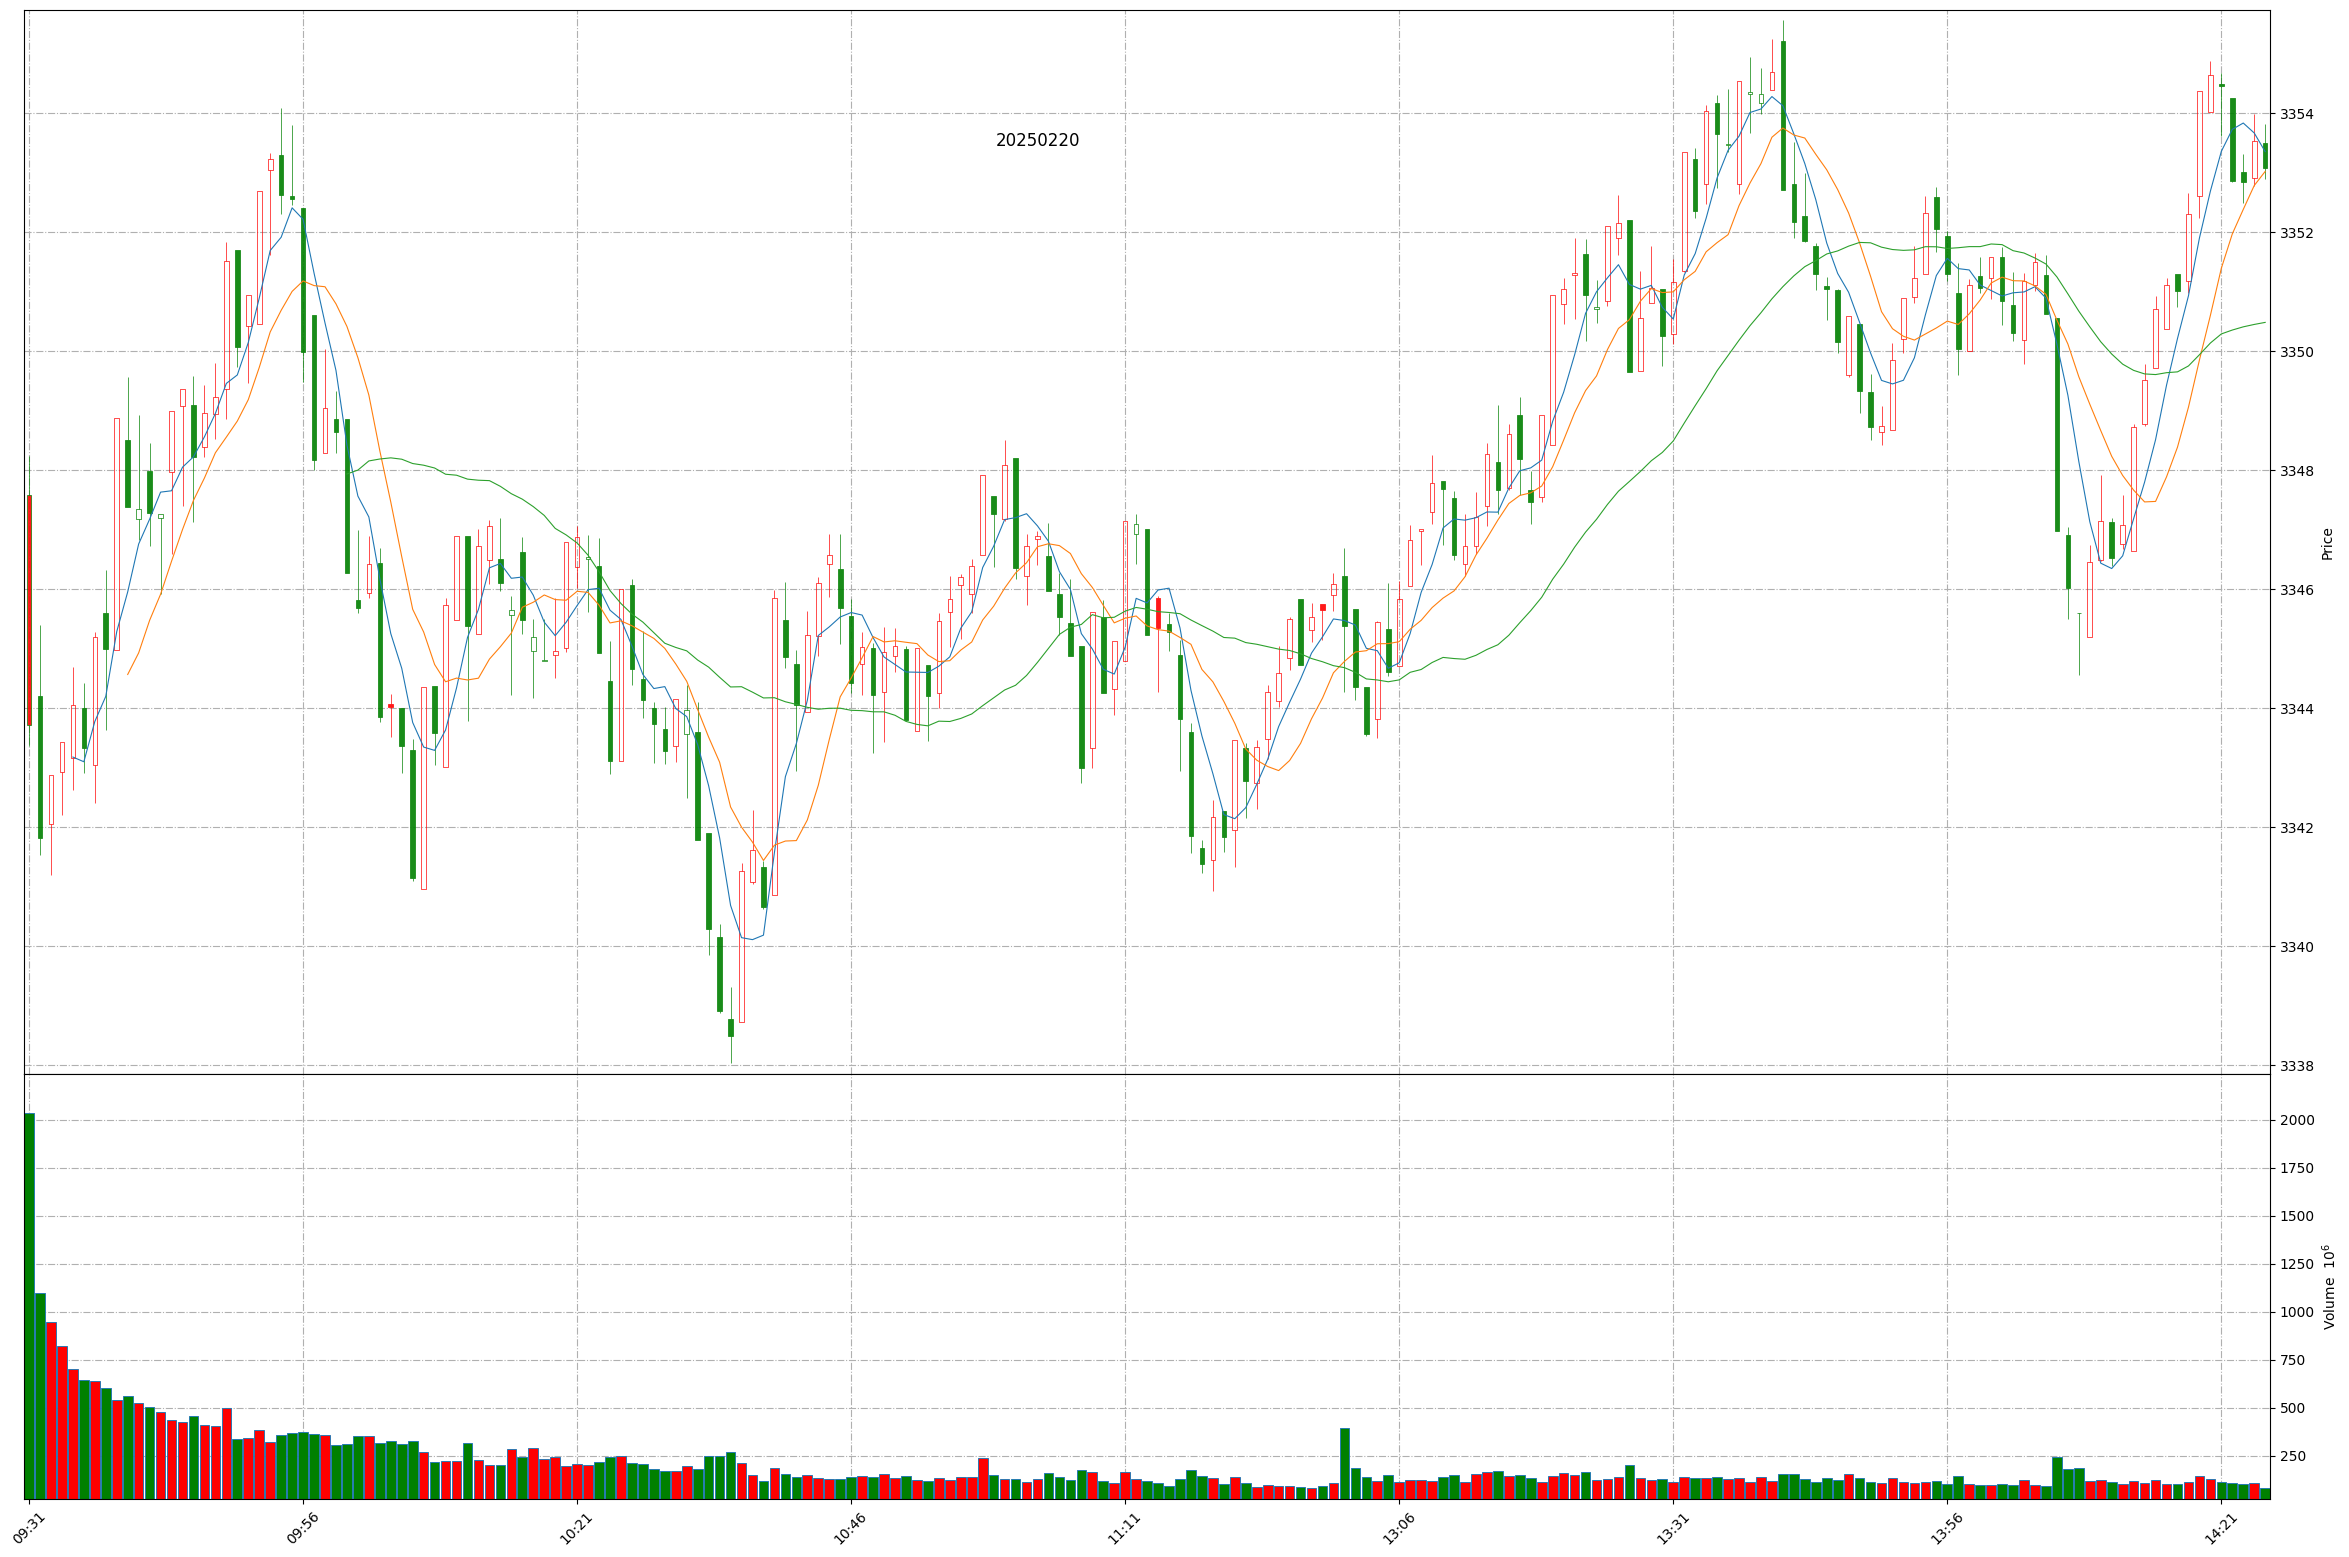
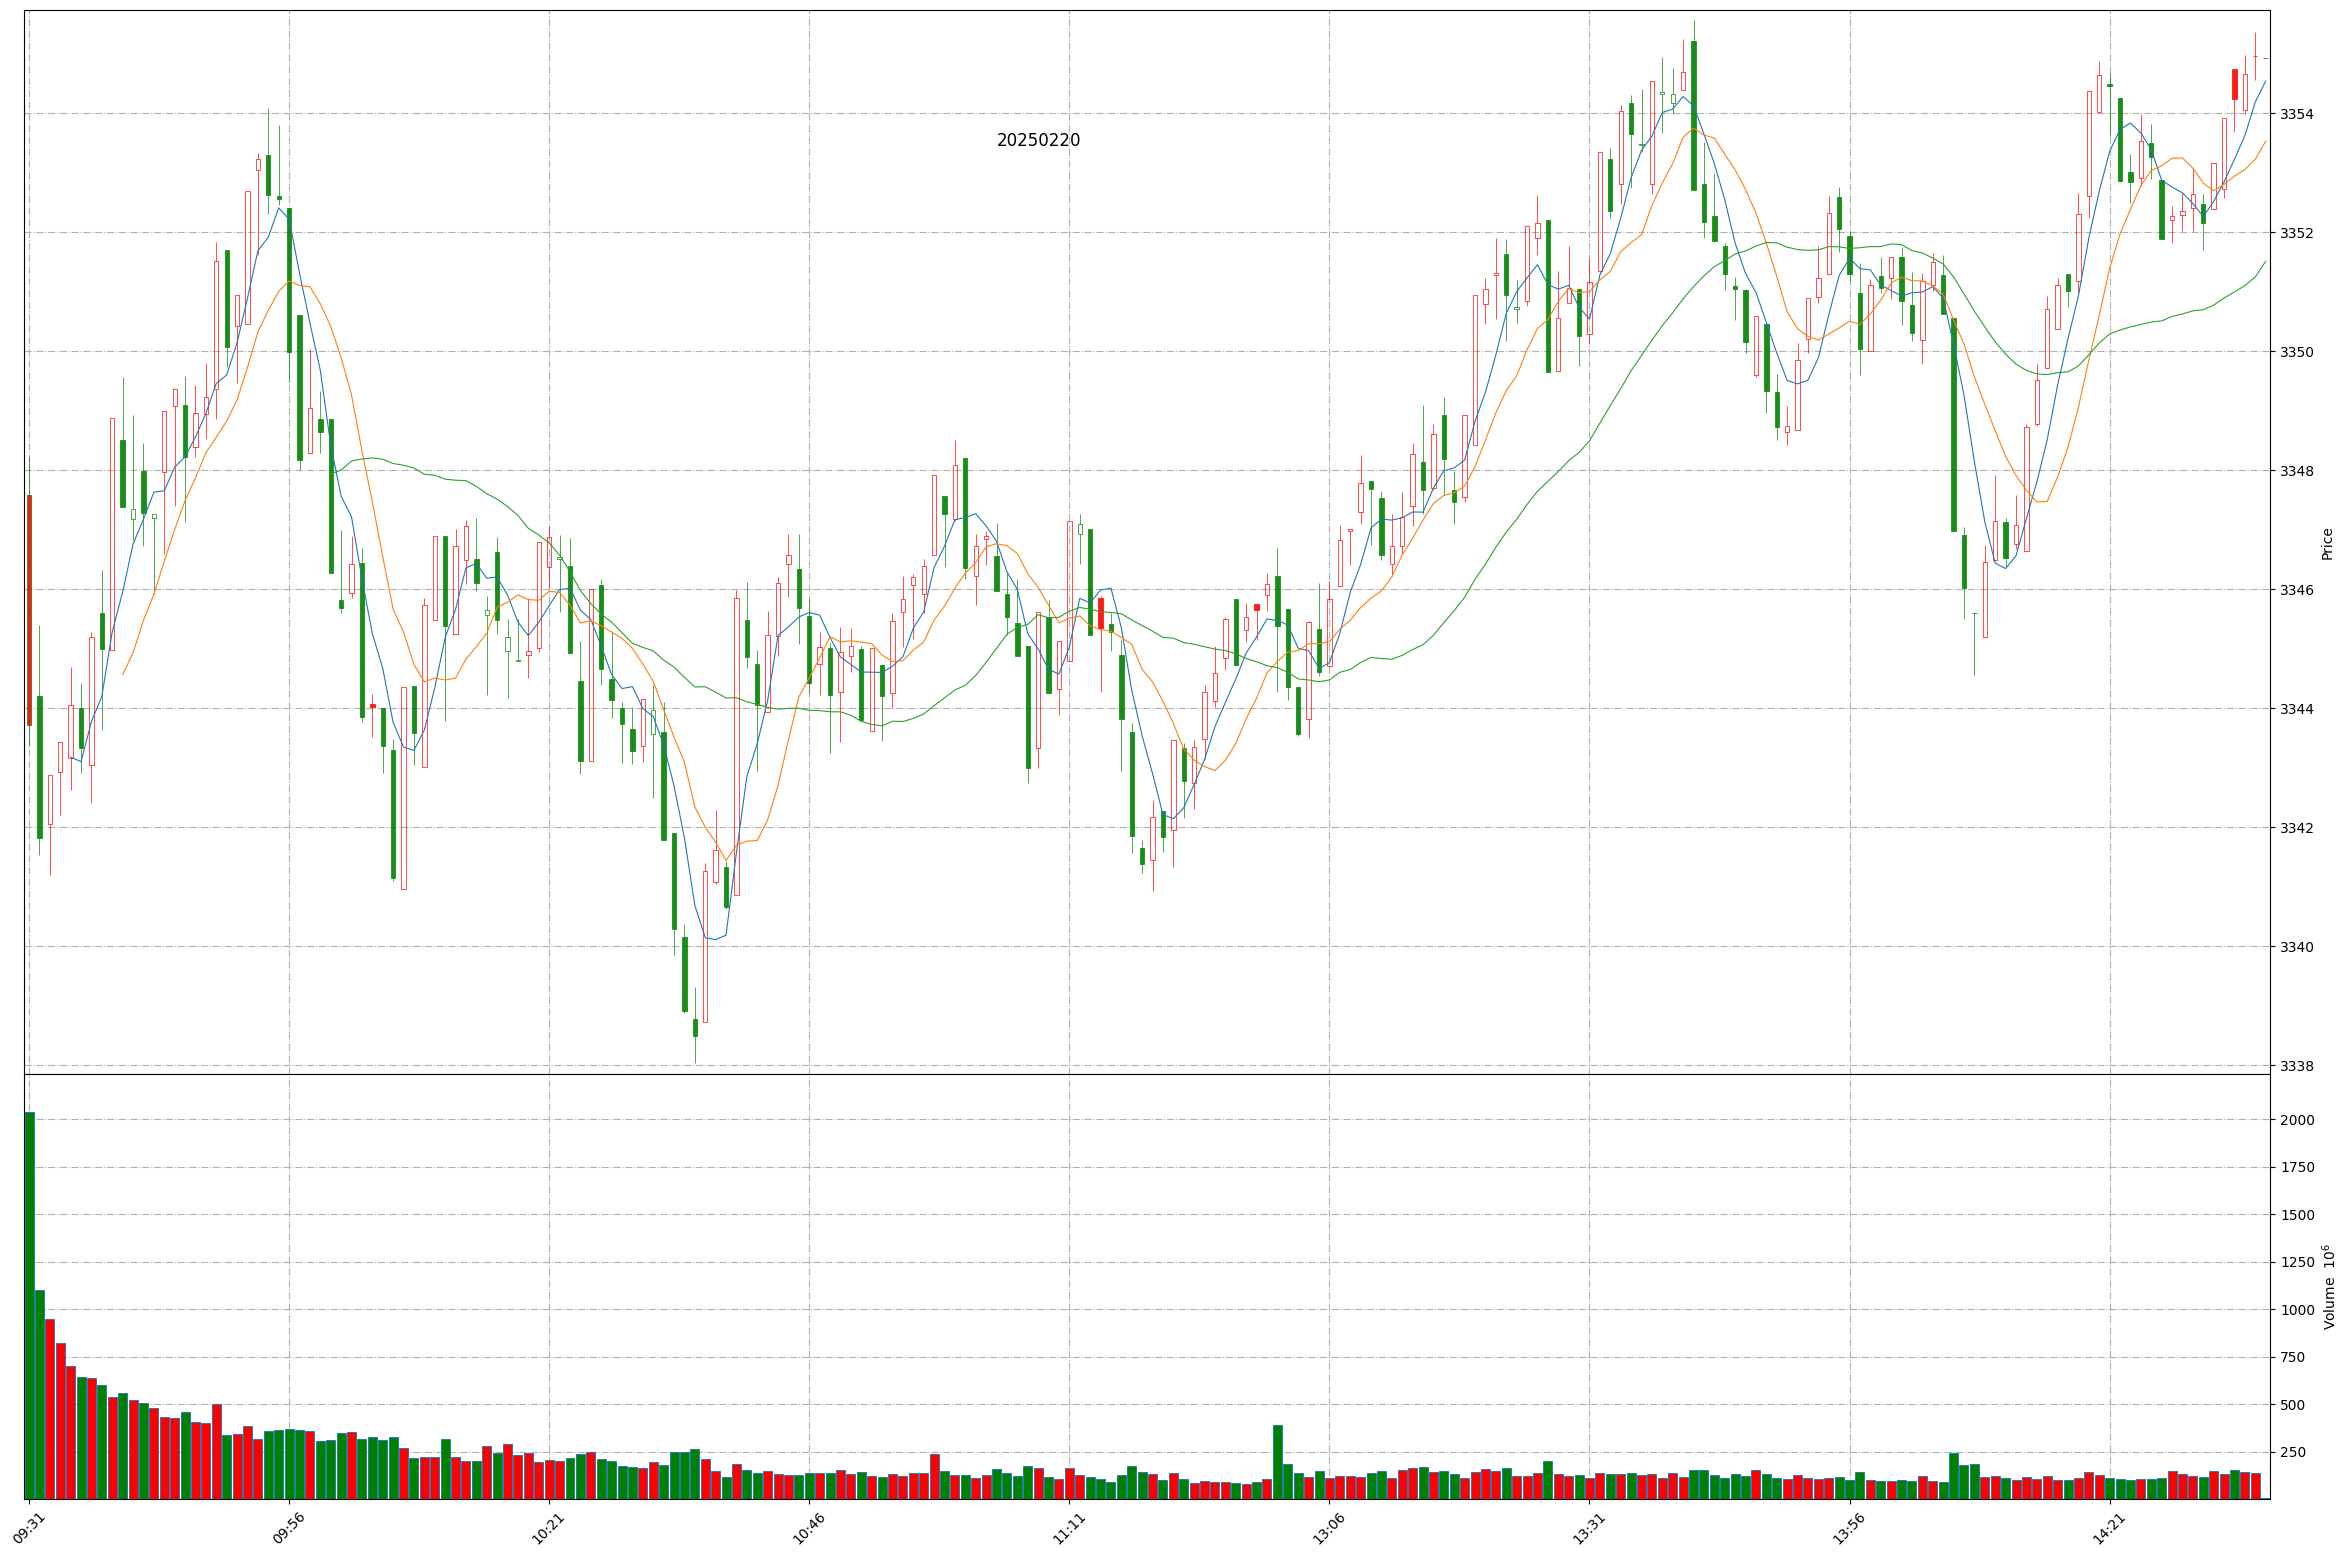
Github action update at 2025-02-20 14:35:18.

diff --git a/README.md b/README.md
@@ -1,11 +1,11 @@
 
 # Daily-A-share-market-quotes 每日 A 股指数（5min 更新）- 20250220
 
-### 上证指数 20250220 14:24
+### 上证指数 20250220 14:35
 ![](./fig/2025/2/20250220-sh000001.png)
 
-### 深证成指 20250220 14:24
+### 深证成指 20250220 14:35
 ![](./fig/2025/2/20250220-sz399001.png)
 
-### 北证50 20250220 14:24
+### 北证50 20250220 14:35
 ![](./fig/2025/2/20250220-bj899050.png)
